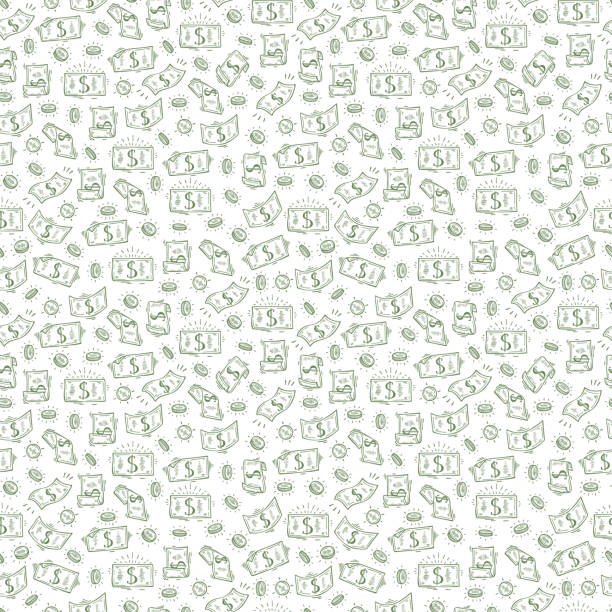
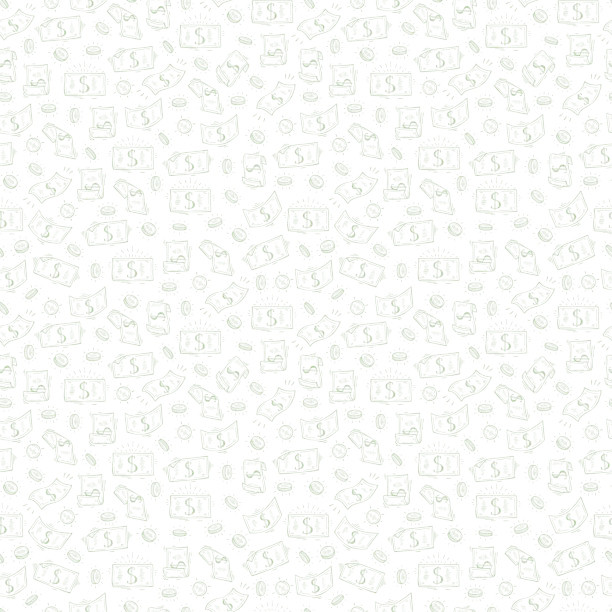
updates readme and changes bg image

Changed region(s): [[0.0, 0.0, 1.0, 1.0]]

diff --git a/README.md b/README.md
@@ -5,16 +5,13 @@ A simple expenses tracker app made with React (Create React App) utilizing React
 ## Table of contents
 
 - [Overview](#overview)
-  - [The challenge](#the-challenge)
   - [Screenshot](#screenshot)
   - [Links](#links)
 - [My process](#my-process)
   - [Built with](#built-with)
-  - [What I learned](#what-i-learned)
   - [Continued development](#continued-development)
   - [Useful resources](#useful-resources)
 - [Author](#author)
-- [Acknowledgments](#acknowledgments)
 
 ## Overview
 
@@ -28,18 +25,9 @@ Users should be able to:
 
 ![](./screenshot.jpg)
 
-Add a screenshot of your solution. The easiest way to do this is to use Firefox to view your project, right-click the page and select "Take a Screenshot". You can choose either a full-height screenshot or a cropped one based on how long the page is. If it's very long, it might be best to crop it.
-
-Alternatively, you can use a tool like [FireShot](https://getfireshot.com/) to take the screenshot. FireShot has a free option, so you don't need to purchase it.
-
-Then crop/optimize/edit your image however you like, add it to your project, and update the file path in the image above.
-
-**Note: Delete this note and the paragraphs above when you add your screenshot. If you prefer not to add a screenshot, feel free to remove this entire section.**
-
 ### Links
 
-- Solution URL: [Add solution URL here](https://your-solution-url.com)
-- Live Site URL: [Add live site URL here](https://your-live-site-url.com)
+[- Live Site URL](https://xenodochial-snyder-4627c7.netlify.app/)
 
 ## My process
 
@@ -51,69 +39,17 @@ Then crop/optimize/edit your image however you like, add it to your project, and
 - CSS Grid
 - Mobile-first workflow
 - [React](https://reactjs.org/) - JS library
-- [Next.js](https://nextjs.org/) - React framework
-- [Styled Components](https://styled-components.com/) - For styles
-
-**Note: These are just examples. Delete this note and replace the list above with your own choices**
-
-### What I learned
-
-Use this section to recap over some of your major learnings while working through this project. Writing these out and providing code samples of areas you want to highlight is a great way to reinforce your own knowledge.
-
-To see how you can add code snippets, see below:
-
-```html
-<h1>Some HTML code I'm proud of</h1>
-```
-
-```css
-.proud-of-this-css {
-  color: papayawhip;
-}
-```
-
-```js
-const proudOfThisFunc = () => {
-  console.log('🎉');
-};
-```
-
-If you want more help with writing markdown, we'd recommend checking out [The Markdown Guide](https://www.markdownguide.org/) to learn more.
-
-**Note: Delete this note and the content within this section and replace with your own learnings.**
+- [Create React App](https://github.com/facebook/create-react-app)
 
 ### Continued development
 
-Use this section to outline areas that you want to continue focusing on in future projects. These could be concepts you're still not completely comfortable with or techniques you found useful that you want to refine and perfect.
-
-**Note: Delete this note and the content within this section and replace with your own plans for continued development.**
+- Implement a feature that saves the current expenses list to local storage, so that it doesn't clear on refresh of the page.
 
 ### Useful resources
 
-- [Example resource 1](https://www.example.com) - This helped me for XYZ reason. I really liked this pattern and will use it going forward.
-- [Example resource 2](https://www.example.com) - This is an amazing article which helped me finally understand XYZ. I'd recommend it to anyone still learning this concept.
-
-**Note: Delete this note and replace the list above with resources that helped you during the challenge. These could come in handy for anyone viewing your solution or for yourself when you look back on this project in the future.**
-
-## Author
-
-- Website - [Add your name here](https://www.your-site.com)
-- Frontend Mentor - [@yourusername](https://www.frontendmentor.io/profile/yourusername)
-- Twitter - [@yourusername](https://www.twitter.com/yourusername)
-
-**Note: Delete this note and add/remove/edit lines above based on what links you'd like to share.**
-
-## Acknowledgments
-
-This is where you can give a hat tip to anyone who helped you out on this project. Perhaps you worked in a team or got some inspiration from someone else's solution. This is the perfect place to give them some credit.
-
-**Note: Delete this note and edit this section's content as necessary. If you completed this challenge by yourself, feel free to delete this section entirely.**
-
-# Getting Started with Create React App
-
 This project was bootstrapped with [Create React App](https://github.com/facebook/create-react-app).
 
-## Available Scripts
+### Available Scripts
 
 In the project directory, you can run:
 
@@ -124,3 +60,8 @@ Open [http://localhost:3000](http://localhost:3000) to view it in the browser.
 
 The page will reload if you make edits.\
 You will also see any lint errors in the console.
+
+## Author
+
+- Website - [Iris Diakoumi](https://documenting.tech)
+- Twitter - [@irisdiakoumi](https://www.twitter.com/irisdiakoumi)
